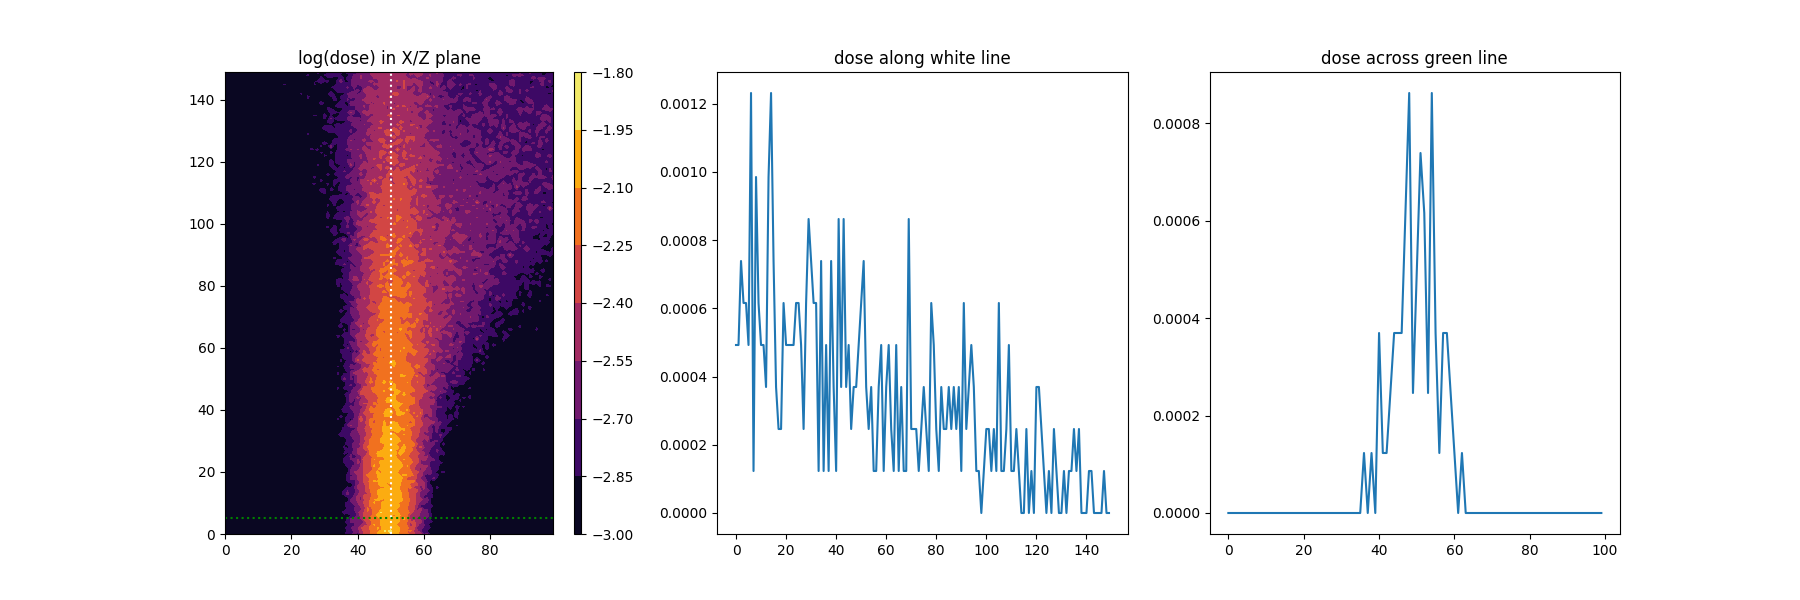
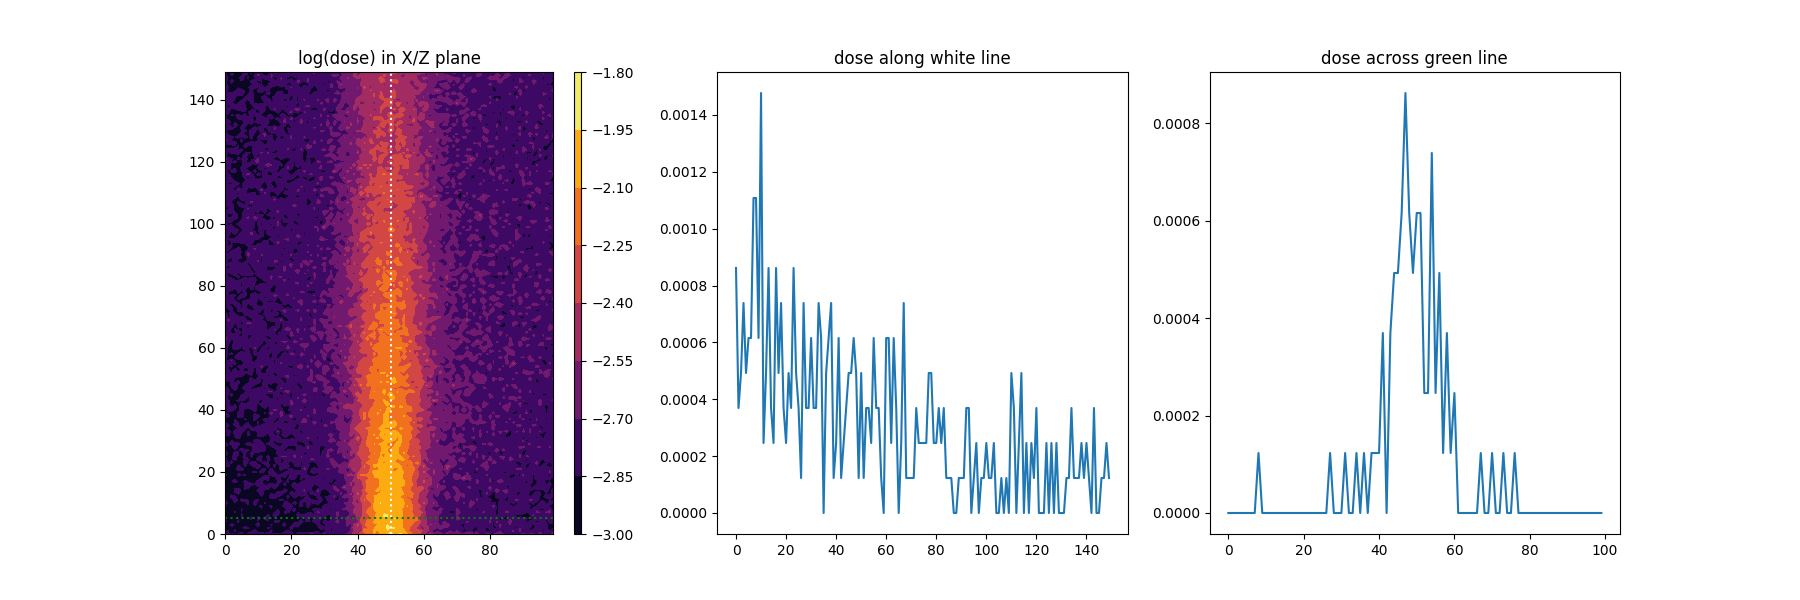
more test runs

diff --git a/project2/src/test.py b/project2/src/test.py
@@ -85,7 +85,7 @@ if __name__ == "__main__":
     WX, WY, WZ = 300, 200, 200  # 300x200x200 mm
     NX, NY, NZ = 150, 100, 100  # for 2x2x2 mm voxels
     A = Arena(WX, WY, WZ, NX, NY, NZ)
-    NMC = 1_000_000  # number of particles we want to simulate
+    NMC = 100_000  # number of particles we want to simulate
     EMAX = 6.0  # maximum energy of particles
 
     ToSimulate = queue.Queue()  # the queue of particles
